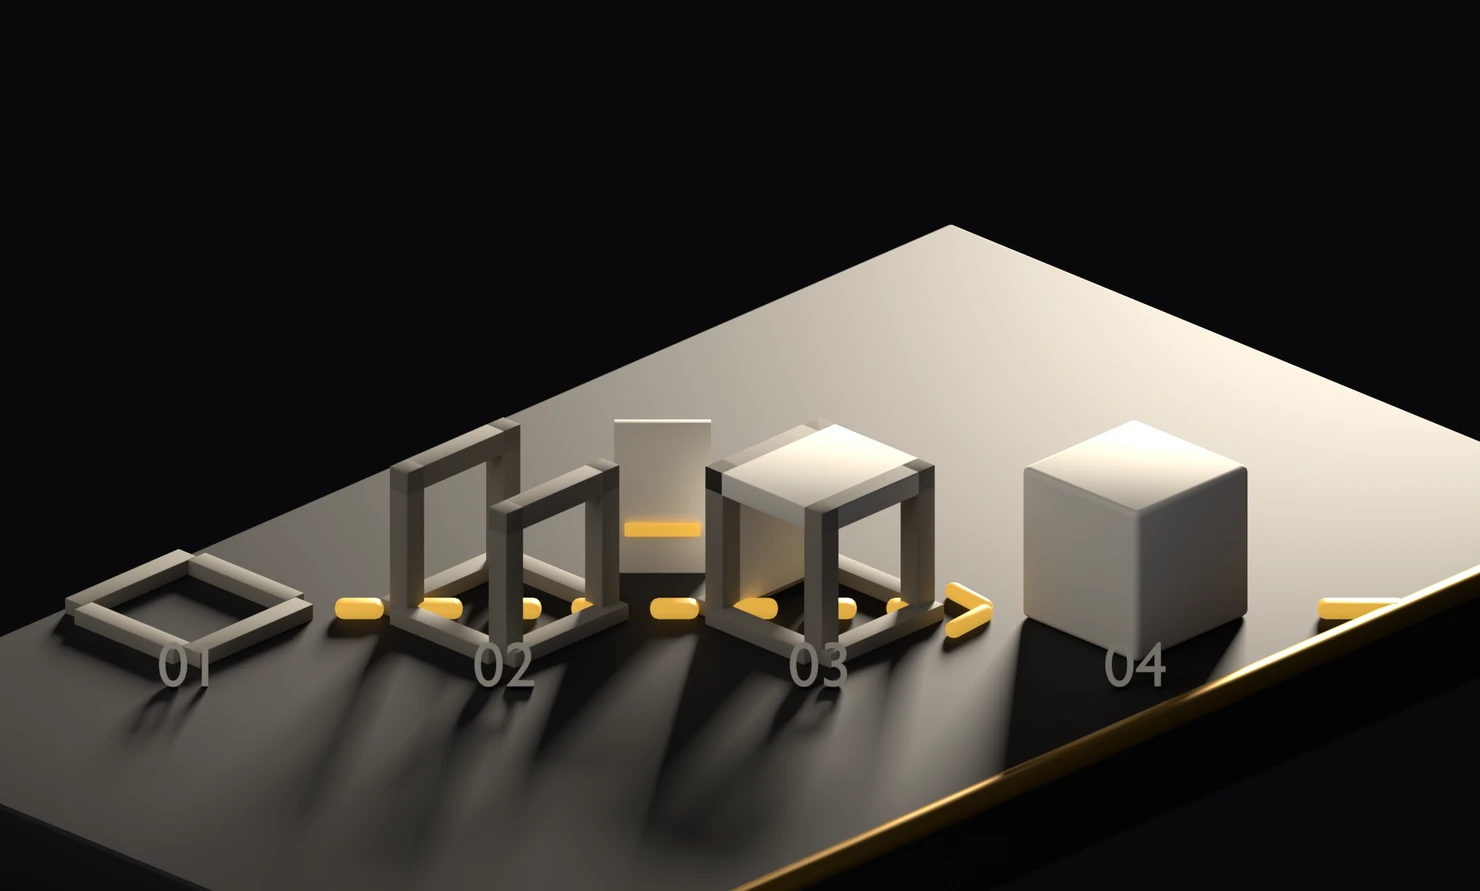
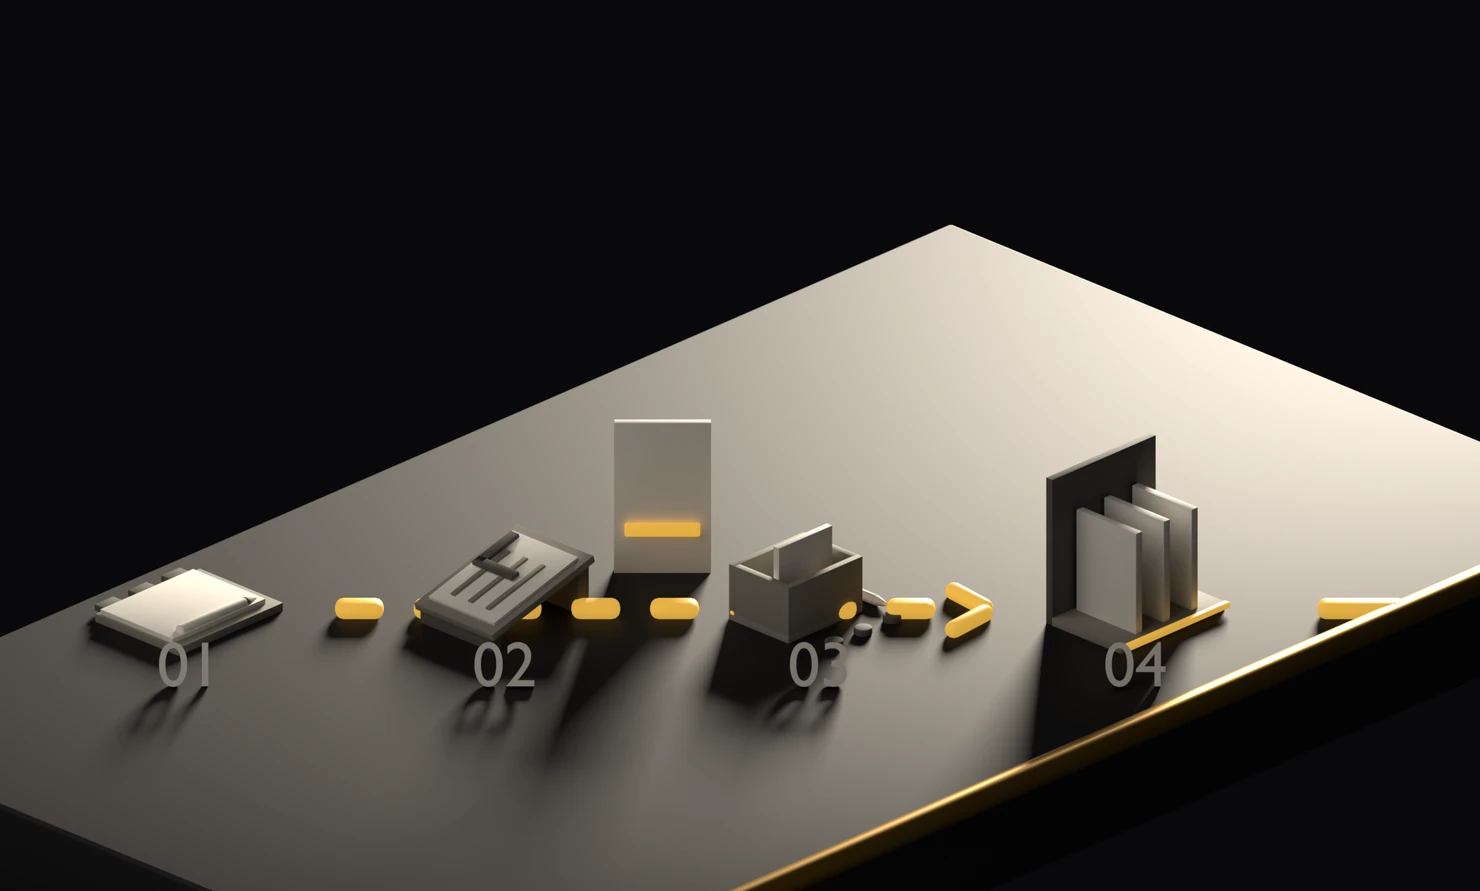
feat(hiw): hiw-chaine refaite en objets — rail, tirets et etiquettes inchanges au chiffre pres
Le client refusait l'illustration : quatre cadres gris de completude croissante ne
disent ni « diagnostic » ni « resultat ». Les quatre corps de station sont refaits
cote scene (`nbhc-broll` 67deaa6) — un dossier a onglets, une planche a dessin, un
boitier en montage, un porte-dossiers avec son lisere dore. La cause de l'echec est
mesuree et non supposee : dans le releve des lectures a l'aveugle du chantier, tous
les objets qu'un lecteur a NOMMES ont une silhouette composee de plusieurs volumes,
et tous ceux qui ont echoue sont un volume unique ou la repetition d'un volume
unique.

CE FICHIER NE CHANGE AUCUN NOMBRE, ET C'EST VERIFIE, PAS AFFIRME.
`rendus/chaine.ancres.json` est BYTE-A-BYTE IDENTIQUE a sa version precedente :
  X_STATIONS      0,1278 / 0,3409 / 0,5541 / 0,7673   inchanges
  ETIQUETTES_CHAINE  (0,7673 ; 0,2407) et (0,9202 ; 0,3534)   inchangees
  recadrage mobile   x 0,2513..0,6433  y 0,2239..0,8562  ->  878 x 853  inchange
La scene RE-EMET elle-meme ses quatre abscisses et les compare aux quatre litteraux
de `X_STATIONS` ci-dessous, controle par controle, et sort en CODE 1 avant de rendre
si l'un differe. Elle verifie aussi, maillage par maillage, que chaque nouvel objet
est confine dans le carre L x L de sa station et sous HAUTEUR_STATION — pire
depassement mesure +0,000 mm monde sur les 34 volumes.

CE QUI CHANGE VRAIMENT :
  - les huit WebP, re-derives du nouveau maitre 2 240 x 1 349 par `exporter_hiw.py`
[…]

Changed region(s): [[0.1865, 0.4545, 0.6527, 1.0], [0.6527, 0.4545, 0.8703, 0.9091], [0.0311, 0.6061, 0.2176, 0.7879]]

diff --git a/components/HowItWorks.tsx b/components/HowItWorks.tsx
@@ -206,6 +206,27 @@ const X_STATIONS = [0.1278, 0.3409, 0.5541, 0.7673] as const;
  * une chance : `resoudre()` ne lit que JOUR, JOUR_QUEUE, QUEUE, EP et la
  * demi-profondeur du socle, et aucun parametre du pointille n'y entre. Le rail, ses
  * quatre tirets et la grille de colonnes ne visent donc rien qui ait bouge.
+ *
+ * ── ET C'EST ENCORE VRAI APRES LA REFONTE DES QUATRE CORPS DE STATION ───────
+ * Le client a refuse les quatre cadres gris de completude croissante : « ils ne
+ * disent ni diagnostic ni resultat ». Les quatre corps sont donc refaits — un
+ * dossier a onglets, une planche a dessin, un boitier en montage, un porte-dossiers
+ * — et la cause en est mesuree : dans le releve des lectures a l'aveugle du
+ * chantier, tous les objets qu'un lecteur a NOMMES ont une silhouette composee de
+ * plusieurs volumes, et tous ceux qui ont echoue sont un volume unique ou la
+ * repetition d'un volume unique. Quatre cadres gris etaient le second cas.
+ *
+ * CE FICHIER N'A RIEN A CHANGER POUR AUTANT, ET CE N'EST PAS UNE PAROLE : la scene
+ * RE-EMET ses quatre abscisses et les compare elle-meme aux quatre litteraux de
+ * `X_STATIONS` ci-dessus, controle par controle, et sort en CODE 1 avant de rendre
+ * si l'un differe. Releve du rendu livre — 0,1278 / 0,3409 / 0,5541 / 0,7673 et les
+ * deux ancres d'etiquette a (0,7673 ; 0,2407) et (0,9202 ; 0,3534), donc IDENTIQUES
+ * au chiffre pres. La raison est structurelle : `resoudre()`, JOUR, JOUR_QUEUE,
+ * QUEUE, HAUTEUR_STATION, EP, ECHELLE, HAUTEUR et CIBLE ne sont pas touches, et
+ * chaque nouvel objet est CONFINE dans le carre L x L de sa station et sous
+ * HAUTEUR_STATION — verifie maillage par maillage, pire depassement 0,000 mm monde.
+ * Le recadrage mobile est donc lui aussi inchange : x 0,2513..0,6433,
+ * y 0,2239..0,8562, soit les memes 878 x 853 que le <source> declare.
  */
 const X_QUEUE = X_STATIONS[3];
 
